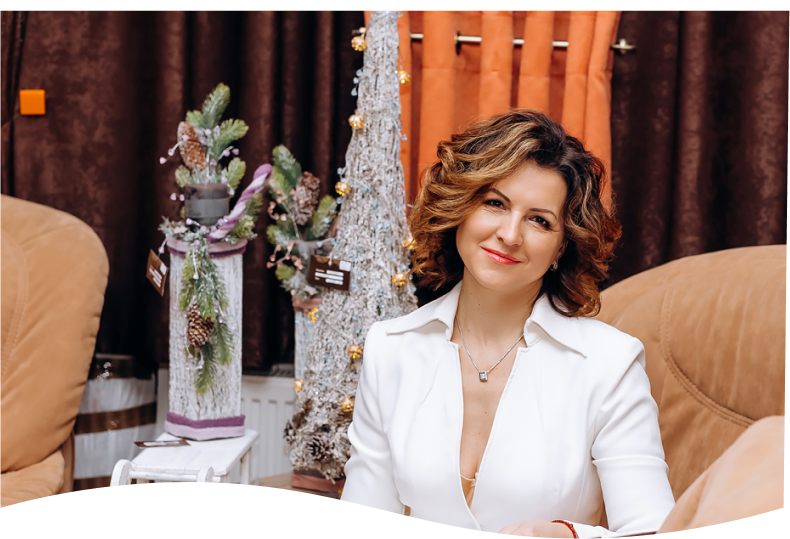
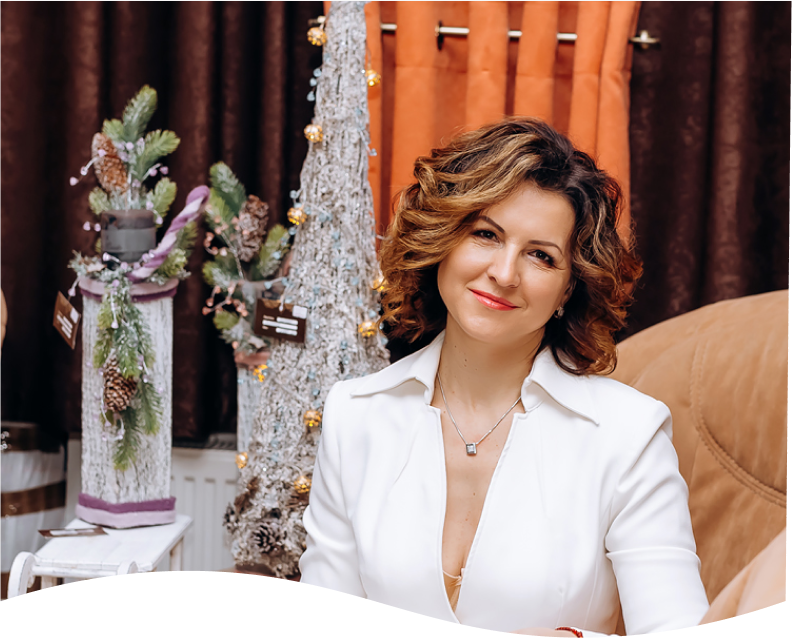
LuxDecor_new

diff --git a/LuxDecor/index.html b/LuxDecor/index.html
@@ -1,5 +1,5 @@
 <!DOCTYPE html>
-<html lang="{{ str_replace('_', '-', app()->getLocale()) }}">
+<html lang="uk">
     <head>
         <meta charset="utf-8">
         <meta name="viewport" content="width=device-width, initial-scale=1">
@@ -29,10 +29,7 @@
                         <div class="col-lg-2 col-md-2 col-sm-2 col-2 lg">
                                 <img src="img/logo.png" alt="logo">
                                 <span class="salon1"> 
-                                    <p class="salon">
-                                        Салон<br>
-                                        штор
-                                    </p>
+                                    Салон штор<br>
                                     у м. Ковель
                                 </span>
                         </div>
@@ -77,8 +74,8 @@
                                         <a href="tel:+380509860688" class="nav-link" target="_blank">
                                             <i class="fa fa-phone"></i>&ensp;&ensp; +38 (050) 98-606-88   
                                         </a>
-                                        Пн. - Пт. <br>
-                                        8.00 - 18.00
+                                        Пн. - Сб.&ensp;&ensp; 8.00 - 18.00<br>
+                                        Нд.&ensp;&ensp; 8.00 - 17.00
                                     </li>    
                                     <hr>
                                     <li class="nav-item visible-xs">
@@ -100,8 +97,14 @@
                                        </a>
                                     </li>    
                                     <hr>
-
-
+                                    <li class="nav-item visible-xs">
+                                       <span><a href="https://www.google.com/maps/place/%D0%B1%D1%83%D0%BB.+%D0%9B%D0%B5%D1%81%D0%B8+%D0%A3%D0%BA%D1%80%D0%B0%D0%B8%D0%BD%D0%BA%D0%B8,+28,+%D0%9A%D0%BE%D0%B2%D0%B5%D0%BB%D1%8C,+%D0%92%D0%BE%D0%BB%D1%8B%D0%BD%D1%81%D0%BA%D0%B0%D1%8F+%D0%BE%D0%B1%D0%BB%D0%B0%D1%81%D1%82%D1%8C,+45000/@51.2184783,24.710406,17z/data=!4m13!1m7!3m6!1s0x47243b03c87d5e97:0x7a93f9d3f60534f9!2z0LHRg9C7LiDQm9C10YHQuCDQo9C60YDQsNC40L3QutC4LCAyOCwg0JrQvtCy0LXQu9GMLCDQktC-0LvRi9C90YHQutCw0Y8g0L7QsdC70LDRgdGC0YwsIDQ1MDAw!3b1!8m2!3d51.218578!4d24.7104889!3m4!1s0x47243b03c87d5e97:0x7a93f9d3f60534f9!8m2!3d51.218578!4d24.7104889" target="_blank" class="nav-link">
+                                            Салон штор LuX Decor <br> 
+                                            Бульвар Лесі Українки, 28 <br>
+                                            Україна, м.Ковель
+                                        </a></span>
+                                    </li>    
+                                    <hr>
                                 </ul>
                             </div>
                             
@@ -586,24 +589,23 @@
                     <div class="col-lg-3 col-3 logo">
                             <a href="#">
                                 <img src="img/logo.png" alt="logo">
-                                <span class="salon1">
-                                    <p class="salon">
-                                        Салон<br>
-                                        штор
-                                    </p>
+                                <span class="salon1 salon2">
+                                    Салон  штор<br>
                                     у м. Ковель
                                 </span>
                                 <span class="day">
-                                    Пн. - Пт. <br>
-                                    8.00 - 18.00
+                                    Пн. - Сб.<br>8.00 - 18.00 <br>
+                                    Нд.<br> 8.00 - 17.00
                                 </span>
                             </a>
                     </div>
                     <div class="col-lg-6 col-sm-6 col-12 center">
-                        <p>
-                            Салон штор LuX Decor <br> 
-                            Бульвар Лесі Українки, 28 <br>
-                            Україна, м.Ковель
+                        <p> 
+                            <a href="https://www.google.com/maps/place/%D0%B1%D1%83%D0%BB.+%D0%9B%D0%B5%D1%81%D0%B8+%D0%A3%D0%BA%D1%80%D0%B0%D0%B8%D0%BD%D0%BA%D0%B8,+28,+%D0%9A%D0%BE%D0%B2%D0%B5%D0%BB%D1%8C,+%D0%92%D0%BE%D0%BB%D1%8B%D0%BD%D1%81%D0%BA%D0%B0%D1%8F+%D0%BE%D0%B1%D0%BB%D0%B0%D1%81%D1%82%D1%8C,+45000/@51.2184783,24.710406,17z/data=!4m13!1m7!3m6!1s0x47243b03c87d5e97:0x7a93f9d3f60534f9!2z0LHRg9C7LiDQm9C10YHQuCDQo9C60YDQsNC40L3QutC4LCAyOCwg0JrQvtCy0LXQu9GMLCDQktC-0LvRi9C90YHQutCw0Y8g0L7QsdC70LDRgdGC0YwsIDQ1MDAw!3b1!8m2!3d51.218578!4d24.7104889!3m4!1s0x47243b03c87d5e97:0x7a93f9d3f60534f9!8m2!3d51.218578!4d24.7104889" target="_blank">
+                                Салон штор LuX Decor <br> 
+                                Бульвар Лесі Українки, 28 <br>
+                                Україна, м.Ковель
+                            </a>
                         </p>
                         <p>
                             © Всі права захищені
@@ -655,9 +657,11 @@
                     </div>
                     <div class="col-12 center2">
                         <p>
-                            Салон штор LuX Decor <br>  
-                            Бульвар Лесі Українки, 28 <br>
-                            Україна, м.Ковель
+                            <a href="https://www.google.com/maps/place/%D0%B1%D1%83%D0%BB.+%D0%9B%D0%B5%D1%81%D0%B8+%D0%A3%D0%BA%D1%80%D0%B0%D0%B8%D0%BD%D0%BA%D0%B8,+28,+%D0%9A%D0%BE%D0%B2%D0%B5%D0%BB%D1%8C,+%D0%92%D0%BE%D0%BB%D1%8B%D0%BD%D1%81%D0%BA%D0%B0%D1%8F+%D0%BE%D0%B1%D0%BB%D0%B0%D1%81%D1%82%D1%8C,+45000/@51.2184783,24.710406,17z/data=!4m13!1m7!3m6!1s0x47243b03c87d5e97:0x7a93f9d3f60534f9!2z0LHRg9C7LiDQm9C10YHQuCDQo9C60YDQsNC40L3QutC4LCAyOCwg0JrQvtCy0LXQu9GMLCDQktC-0LvRi9C90YHQutCw0Y8g0L7QsdC70LDRgdGC0YwsIDQ1MDAw!3b1!8m2!3d51.218578!4d24.7104889!3m4!1s0x47243b03c87d5e97:0x7a93f9d3f60534f9!8m2!3d51.218578!4d24.7104889" target="_blank">
+                                Салон штор LuX Decor <br> 
+                                Бульвар Лесі Українки, 28 <br>
+                                Україна, м.Ковель
+                            </a>
                         </p>
                         <p>
                             © Всі права захищені

diff --git a/LuxDecor/css/header.css b/LuxDecor/css/header.css
@@ -1,5 +1,5 @@
 header{
-	background: url('../img/main.png') no-repeat;
+	background: url('../img/main.png') no-repeat center;
 	-moz-background-size: cover; /* Firefox 3.6+ */
     -webkit-background-size: cover; /* Safari 3.1+ и Chrome 4.0+ */
     -o-background-size: cover; /* Opera 9.6+ */
@@ -40,8 +40,14 @@ nav a:hover{
 span.salon1{
 	position: absolute;
 	color: white;
+	margin-top: 1rem;
 	font-size: .9em;
-	padding-top: .8rem;
+	padding-right: .4rem;
+	padding-left: .3rem;
+	border-right: 1px solid white;
+}
+span.salon2{
+	border-right: 1px solid #FB5012;
 }
 .menu {
 	padding-top: 1.7rem;
@@ -49,11 +55,7 @@ span.salon1{
 .lg img{
 	height: 80%;
 }
-.salon{
-	margin-bottom: -.1rem;
-    border-right: 1px solid white;
-    width: 50px;
-}
+
 .phone{
 	text-align: end;
 	padding-top: 1.5rem;
@@ -93,8 +95,8 @@ span.salon1{
     margin: 20px;
     text-align: center;
 }
-.nav-link{
-    margin-bottom: 0;
+.navbar-nav .nav-link{
+    margin: 0;
 }
 .navbar-nav hr{
     width: 40%;
@@ -117,8 +119,11 @@ li a span:hover{
 }
 @media screen and (max-width: 1099px){
 	span.salon1{
-		font-size: 9px;
-		padding-top: 1.2rem;
+		margin-top: 1.3rem;
+	}
+	.lg img{
+		margin-top: .5rem;
+		height: 65%;
 	}
 	.team a{
 		padding-right: 1.2rem;
@@ -130,6 +135,15 @@ li a span:hover{
 }
 
 @media screen and (max-width: 991px){
+	header {
+	    background: url(../img/main.png) no-repeat center;
+	    -moz-background-size: cover;
+	    -webkit-background-size: cover;
+	    -o-background-size: cover;
+	    background-size: cover;
+	    width: 100%;
+	    height: 650px;
+	}
 	.container{
 		max-width: 95%;
 	}
@@ -155,7 +169,7 @@ li a span:hover{
 
 @media screen and (max-width: 767px){
 	header{
-		background: url('../img/main_small.png') no-repeat left;
+		background: url('../img/main_small.png') no-repeat center;
 		-moz-background-size: cover; /* Firefox 3.6+ */
 	    -webkit-background-size: cover; /* Safari 3.1+ и Chrome 4.0+ */
 	    -o-background-size: cover; /* Opera 9.6+ */

diff --git a/LuxDecor/css/styles.css b/LuxDecor/css/styles.css
@@ -309,7 +309,7 @@ form .btn:focus{
 	background: url('../img/scr9.png')no-repeat center;
 	background-size: cover;
 	width: 100%;
-	height: 630px;
+	height: 670px;
 }
 #screen9 form{
 	color: white;
@@ -327,7 +327,6 @@ form .btn:focus{
 	position: absolute;
 	z-index: 2;
 	padding: 1.5rem;
-	backdrop-filter: blur(3px);
 }
 footer{
 	background: url('../img/footer.png')no-repeat;
@@ -355,7 +354,7 @@ footer{
 	position: absolute;
 	color: white;
 	font-size: .9em;
-	padding-left: 6rem;	
+	padding-left: 6.3rem;	
 	padding-top: .8rem;
 }
 .center2{
@@ -367,6 +366,14 @@ footer{
 	margin: 0 auto;
 	padding-top: 1.5rem;
 }
+.center a, 
+.center2 a{
+	color: white;
+} 
+.center a:hover, .center a:active,
+.center2 a:hover, .center2 a:active{
+	color: #FB5012;
+} 
 .center p:nth-child(2){
 	font-size: 12px;
 }
@@ -610,8 +617,8 @@ footer{
 }
 @media screen and (max-width: 575px){
 	.modalDialog > div {
-    		width: 450px;
-    		margin: 4% auto;
+    	width: 450px;
+    	margin: 4% auto;
 	}
 	h1{
 		font-size: 28px;
@@ -633,9 +640,6 @@ footer{
 	.photo01{
 		display: none;
 	}
-	.photo01{
-		display: none;
-	}		
 	.ldm{
 		display: none;
 	}
@@ -726,10 +730,13 @@ footer{
 }
 @media screen and (max-width: 475px){
 	.modalDialog > div {
-    		width: 400px;
+    	width: 400px;
 	}
 	.title p{
 		font-size: 12px;
+	}
+	.photo1{
+		display: none;
 	}
 	.photo0{
 		display: flex;
@@ -754,7 +761,7 @@ footer{
 }
 @media screen and (max-width: 450px){
 	.modalDialog > div {
-    		width: 350px;
+    	width: 350px;
 	}
 	.box1 h4, .box2 h4 {
 		font-size: 14px;
@@ -795,7 +802,7 @@ footer{
 }
 @media screen and (max-width: 375px){
 	.modalDialog > div {
-    		width: 330px;
+    	width: 330px;
 	}
 	.box1, .box2 {
 	    width: 220px;
@@ -816,7 +823,7 @@ footer{
 }
 @media screen and (max-width: 340px){
 	.modalDialog > div {
-    		width: 300px;
+    	width: 300px;
 	}
 	.attention h2 {
 	    margin-top: 2rem;
